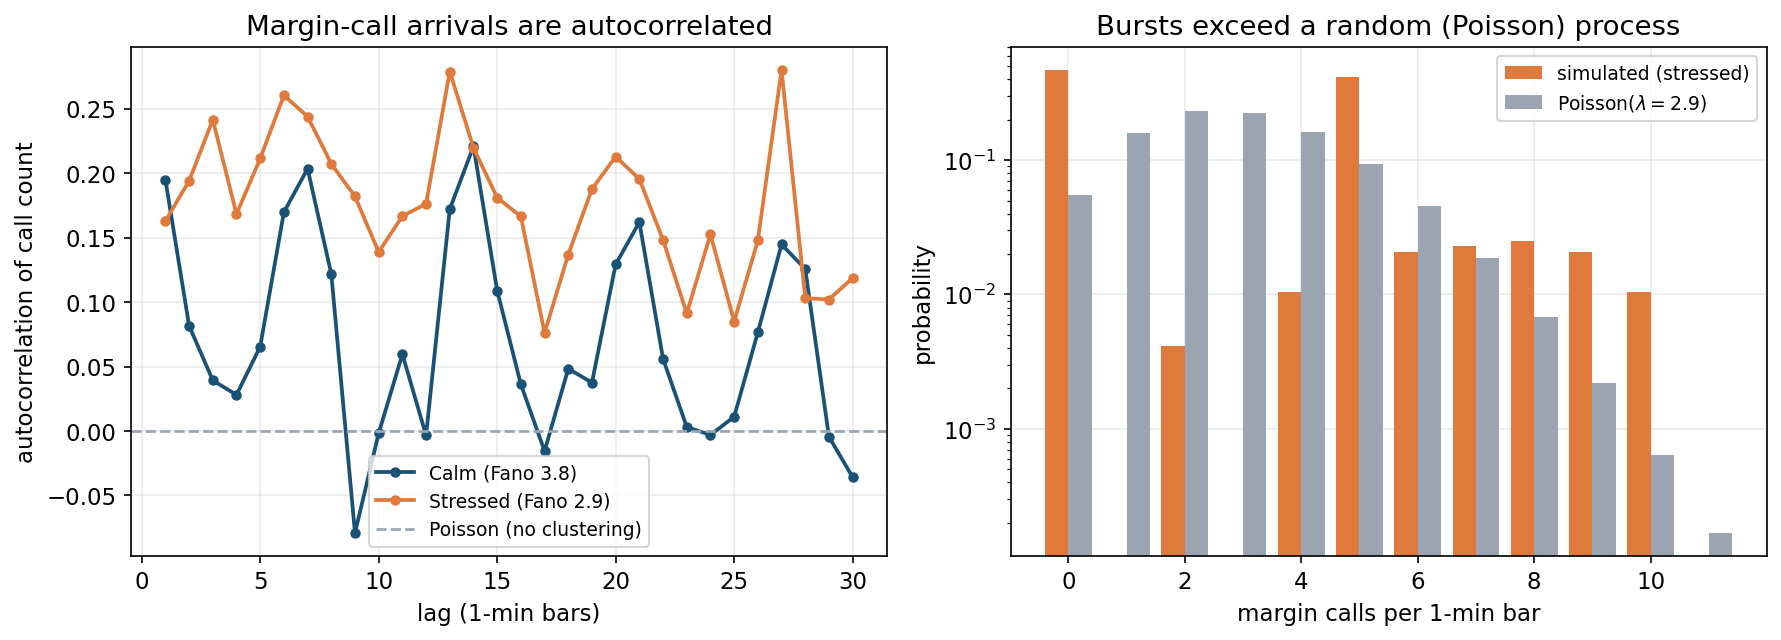
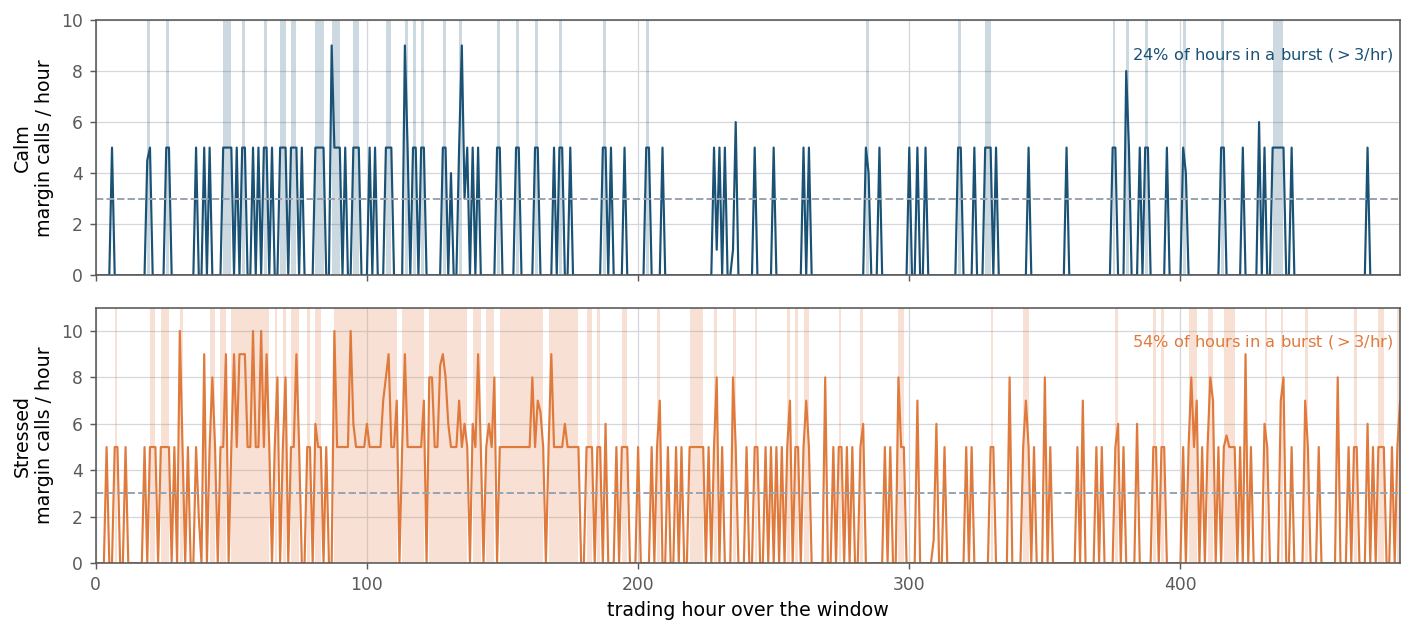
Updates from Overleaf

diff --git a/chapters/05_results.tex b/chapters/05_results.tex
@@ -1,94 +1,94 @@
-In this chapter, the Agent-Based Model for Client Clearing is presented across calm and stressed regimes. The standard model used the historical mid price series as a proxy for the Fundamental Value. The model is then demonstrated through a study of the procyclical nature of margin calls in stressed environments, comparing stress reactive margining to flat and constant margining. Finally, a version of the model is presented that replaces the empirical mid price fundamental value with a stochastic fundamental value, further expanding the usefulness of the model through simulations across various diverse paths. 
+In this chapter, the Agent-Based Model for Client Clearing is presented across calm and stressed regimes. The standard model uses the historical mid price series as a proxy for the Fundamental Value. The model is then demonstrated through a study of the procyclical nature of margin calls in stressed environments, comparing stress reactive margining to flat and constant margining. For the standard model, the simulation is run multiple times across different seeds. As the FV path remains the same, the mid price also follows near-identical paths. There are, however, variations in CM and client behaviours. Fundamental traders get new belief offsets, changing their behaviour patterns. Balance sheets are drawn once more, adding some more variation. The order posting behaviours also change, leading to different positions being created. This can be likened to running the same world on repeat, the major elements may be similar but small variations can lead to big changes especially in the tail -- with this emergent behaviour forming a characteristic feature of Agent-Based Models. 
+
+Finally, a version of the model is presented that replaces the empirical mid price fundamental value with a stochastic fundamental value, further expanding the usefulness of the model through simulations across various diverse paths. 
 
 
-\section{The Client-Clearing ABM}
+\section{The Client-Clearing ABM}\label{sec:res-general}
 
-This section simply presents the standard ABM as it is, across both regimes. The visualised mechanics of the model aid in a deeper understanding and a validation of the model's functions. 
+This section simply presents the standard ABM as it is, across both regimes. The visualised mechanics of the model aid in a deeper understanding and a validation of the model's functions.  Each regime is driven by the historical ES mid as a proxy fundamental, and simulations were done across 100 seeds.
 
+\paragraph{The simulated mid and the fundamental.} As seen in Figure~\ref{fig:res-fv}, the simulated mid price closely tracks the fundamental value. This can be expected, the Fundamental Traders add the informed order flow and make up a large portion of agents, and their quotes are anchored to $V_t$. In the Appendix~\ref{app:microstructure}, there are more figures on the microstructure of the order book which shows elements such as a thinning buy side in stressed and order volumes.
 
-
-
-
-
-
-This section presents the two-tier ABM for client clearing. It combines a calibrated LOB with realistic clearing practices and a CCP default waterfall. The descriptive figures illustrate the price generation, order flow, margin cycles and capital adequacies across the model.
-
-Output is shown across both a calm and stressed regime. Across both regimes, the simulated mid closely tracks the Fundamental Value of the asset (Fig \ref{fig:res-fv}). 
-
-\begin{figure}[H]
-  \centering
+\begin{figure}[H]\centering
   \includegraphics[width=\textwidth]{Figures/E_fv_vs_mid.png}
-  \caption{\textbf{Fundamental versus simulated mid (full model).} The empirical fundamental $V_t$ and the
-  simulated mid with the clearing tier active, calm and stressed regimes.}
+  \caption{\textbf{Fundamental versus simulated mid.} Empirical fundamental $V_t$ and the simulated mid
+  with the clearing tier active, calm and stressed.}
   \label{fig:res-fv}
 \end{figure}
 
-Compared to the calm regime, we see higher traded volumes in the stressed period. We also see a skew towards selling during the stressed market, with a thinning buy side order book depth (Fig \ref{fig:res-flow}).
+\paragraph{Capital Ratios and Clearing Members.} In the stressed regime, members are pushed towards the capital-adequacy ratio of 8\% that they share. The BCMs occasionally breach and deleverage, and the NBCMs breach less often and freeze. NBCMs also sit with a higher capital ratio on average (Figure~\ref{fig:res-kappa}, but on the rare occasion where they do hit the floor and freeze, they are the only CM type that defaults. 
 
-\begin{figure}[H]
-  \centering
-  \includegraphics[width=\textwidth]{Figures/A_order_flow.png}
-  \caption{\textbf{LOB Depth.} Buy- versus sell-side order book depth.}
-  \label{fig:res-flow}
-\end{figure}
+Each stressed seed produce an average $8.3$ client defaults (range $2$--$18$) and no defaults in calm. When the clients default, their CM seizes their IM and absorbs the remaining VM shortfall. The loss is generally contained at the CM and never reaches the default fund. In the rare case of NBCM default, 
+the residual deficit it leaves --- on average
+$\approx\$1.1$B --- is drawn up the waterfall: the defaulter's own default-fund contribution
+($\approx\$0.11$B) and the CCP's skin-in-the-game ($\approx\$0.12$B) first, then the mutualised pooled
+default fund ($\approx\$0.87$B). Against an average fund size of $\approx\$4.5$B in stress (and
+$\approx\$6.3$B in calm) this draws about $19\%$ of the pooled fund.
 
-\subsection{Capital Adequacy Ratios and Breaches}
-
-The clearing members operate with CAR constraint of a minimum of 8\%. BCMs that carry clients operate close to this floor. In the stressed period, they also breach the CAR ratio and must subsequently deleverage, with about 3.1 of the 5 breaching in a typical stressed seed. The five proprietary BCMs stay well above the floor. The NBCMs display heterogeneous behaviour, 2 of the five generally breach in a stressed seed but with no way to deleverage, roughly 0.15 of the 5 default per seed. 
-
-\begin{figure}[H]
-  \centering
+\begin{figure}[H]\centering
   \includegraphics[width=\textwidth]{Figures/B_capital_ratio.png}
-  \caption{\textbf{Clearing-member capital ratio $\kappa$ --- individual members (representative seed)}}
+  \caption{\textbf{Clearing-member capital ratio $\kappa$.} Left: median $\kappa$ by member type over
+  the stressed window (IQR band); the banks ride the $8\%$ floor (dashed) while the non-banks sit
+  higher. Right: per-seed floor breaches and defaults by type --- banks breach but deleverage and
+  survive, while the non-banks, unable to deleverage, are the only tier that defaults. In calm all
+  members sit far above the floor.}
   \label{fig:res-kappa}
 \end{figure}
 
-Each stressed seed produces ≈8.3 client defaults (range 2–18; none in calm); on default the client's posted initial margin is seized first and the carrying member absorbs the residual variation-margin shortfall and close-out loss against its own capital, closing out the position — so with no member failure the loss is contained at the member and never reaches the mutualised default fund.
+\noindent This stylised result from the model stresses the importance for NBCMs to have an available external funding source that is reliable even in stressful market situations. The lack of an own book that can be liquidated to generate liquidity is a vulnerability for the NBCM, even when it freezes all client trading at a comfortable capital ratio of 8\%.
 
-\subsection{Margin Cycle}
+\paragraph{Margin is procyclical and clusters.} Posted margin sits at the anti-procyclicality floor of 4\% for the entirety of the calm period and the start of the stressed period, ramping upto a peak of $11.4\%$ in stressed, averaging at $7.7\%$ over the window (Figure~\ref{fig:res-im}), a result of the volatility sensitive VaR margining.
 
-In calm periods, the IM stays at its anti-procyclicality floor of 4\%. Due to the low volatility and stable client trading, posted IM sees little variation. In stressed conditions, it starts at the 4\% floor and reaches a peak of 11.4\%, averaging 7.7\% across the window. 
-
-\begin{figure}[H]
-  \centering
+\begin{figure}[H]\centering
   \includegraphics[width=\textwidth]{Figures/C_im_path.png}
-  \caption{\textbf{Initial margin --- dollar path and procyclical fraction.} Posted IM (left axis, median
-  $+$ IQR) and the charged IM fraction (right axis): flat at the $4\%$ floor in calm}
+  \caption{\textbf{Initial margin: dollar path and procyclical fraction.} Posted IM (left axis, median
+  and IQR) and the charged fraction (right axis): flat at the $4\%$ floor in calm, ramping to $11.4\%$
+  in stress.}
   \label{fig:res-im}
 \end{figure}
 
-The majority of posted margin is from the client, 57\% in the stressed window and 60\% in the calm window. The lower share in the stressed window is due to the trading freezes that affect clients, lowering their trade volume whereas that of proprietary BCMs remains stable. 
+\noindent Under stress, clients post roughly half of all initial margin (Figure~\ref{fig:res-imtype}). The client tier therefore has a large impact on collateral demand. We also see that FTs post the most amount of collateral, and MTs vary quite sharply in the collateral they post, a result of both higher margin requirements and increased trading in stressed markets due to their strategy and a persistent negative drawdown.
 
-
-\begin{figure}[H]
-  \centering
+\begin{figure}[H]\centering
   \includegraphics[width=\textwidth]{Figures/D_im_by_type.png}
   \caption{\textbf{Posted initial margin by participant type.} Fundamental, momentum and noise clients
-  versus banking-member house margin; clients post $\approx 57\%$ of the total under stress.}
+  versus banking-member house margin; clients post about half of the total.}
   \label{fig:res-imtype}
 \end{figure}
 
-Looking at the margin calls, we see that they have a tendency to cluster. Both the baseline intensity and bursts are amplified during stress. 
+\noindent Looking at the arrival of margin calls, we see that they cluster over time, with bursts during stress (Figure~\ref{fig:res-mc}), emerging from the replicated volatility clustering in the model. This leaves CMs and clients prone to destabilising margin spikes during periods of extreme stress. 
 
 \begin{figure}[H]
   \centering
   \includegraphics[width=\textwidth]{Figures/F_margin_call_clustering.png}
-  \caption{\textbf{Margin-call clustering.} Margin calls per hour over the window, calm (top) versus stressed (bottom).}
+  \caption{\textbf{Margin-call clustering.} Margin calls per hour, calm (top) versus stressed (bottom); hours exceeding three calls are shaded. The wide, sustained bands under stress (54\% of hours) versus scattered spikes in calm (24\%) show the calls arriving in clusters rather than at random.
+}
   \label{fig:res-mc}
 \end{figure}
 
-\section{Margin Procyclicality}
+\section{Margin Procyclicality}\label{sec:resh1}
 
-The model is applied to answer the single hypothesis of this thesis -- the procyclicality of margin calls. Risk and volatility sensitive margining practices are procyclical in nature: margins are low in calm markets and rise in stressed markets, demanding more collateral in the exact situation when it is hard to raise. This experiment switches the reactive volatility based IM for a flat IM across all regimes. This flat IM keeps it constant, and may include asking for an unnecessarily high buffer during calm times, and in return diminishing the need for procyclical margin calls. Three levels of margin are tested - a low level at 4\%, a level resembling the average stressed IM at 8\%, and a level covering the peak stressed IM at 12\%. There are many assets that already have IM requirements higher than 10\%, while ES futures tend to have low IM requirements due to their high liquidity. 
+The model is then applied to look at margining practices -- volatile reactive margining is compared to flat and constant margins at different levels. Volatility sensitive margining is procyclical by construction, demanding collateral in stressful times where liquidity is hardest to raise \citep{brunnermeier_pedersen_2009,glasserman_wu_2018}. An anti-procyclicality (APC) buffer is standard practice, it asks for higher margins in calm times such that margins don't spike as much in stress. For the standard model, this was set at 4\% as covered in Section~\ref{sec:clearing-margin}. Here we look at a simple and explicit trade-off, we replace the reactive VaR margining with flat and constant margining at 3 levels -- 4\%, 8\%, and 12\%. 
 
-To test this hypothesis, the default fund (DF) had to be substituted. As the SLOIM default fund adjusts for IM, it shrank to zero for the high flat IMs that exceeded the extreme stress moves. A simple DF is used across both flat and reactive IMs, sized at a 10\% loss of the 2 largest members' positions. This leads to a DF size of $\approx\$12$--$14$B, similar to CME Clear levels. As previously mentioned, for reactive IM, the charged fraction
-ramps $4\%\!\to\!11.4\%$ ($2.84\times$) into the crash (Figure~\ref{fig:res-im}).
+The low level at 4\% is a plausible lower bound for an asset as liquid as ES futures, and is the current APC buffer in the standard model. The intermediate 8\% is close to the average margin the reactive VaR model asks for in stress times, and the high level at 12\% covers the peak of margin asked for by the model. Each of these, alongside the reactive VaR margining, is run over 150 seeds and evaluated based on client defaults, member defaults, how far losses travel up the waterfall and how much it costs to post these levels of collateral.
+
+The default fund (DF) of the standard model had to be adjusted to account for this construction. The standard model uses a Stressed-loss-over-margin to size the DF, but for the high flat IMs this often led to the DF collapsing to zero. The experiment therefore substitutes a fixed default fund, sized at $10\%$ of the two largest
+members' positions (a cover-2 principle) at $\approx\$12$--$14$B --- comparable to CME Clear's --- and
+applies it to both the flat and reactive arm, so that differences reflect the
+margin rule alone.
+
+
 
 
 \begin{table}[H]
 \centering\small
-\caption{\textbf{H1 --- margin regimes (stressed, 12 seeds).} Client defaults mean (sd); other columns mean
-across seeds; IM in \$B.}
+\caption{\textbf{H1 --- margin regimes (stressed, 150 seeds).} Client defaults mean (sd); other columns mean
+across seeds; IM in \$B; run under the ODD fixed default fund ($\approx\$12$--$14$B across arms) so the
+mutualised layer is comparable. The \emph{flat ladder} reads the trade-off top-to-bottom: as the standing
+margin rises, cost rises and client defaults fall, but loss climbs the waterfall (member defaults and
+mutualisation rise). \emph{Reactive} (set off below) holds the flat-$4\%$ standing cost while matching
+flat-$8\%$'s stress protection (its lower risk-metric means are within seed noise) --- its cost is the
+stress-time \emph{peak}.}
 \label{tab:res-h1}
 \begin{tabular}{l cc c cc}
 \toprule
@@ -96,25 +96,74 @@ across seeds; IM in \$B.}
 \cmidrule(lr){2-3}\cmidrule(lr){5-6}
 Margin regime & calm & peak & client def. & member def. & reach fund \\
 \midrule
-Flat $4\%$    & $15.9$ & $16.0$ & $14.3\ (2.8)$ & $0.00$ & $0\%$  \\
-Flat $8\%$    & $27.7$ & $29.6$ & $11.8\ (4.5)$ & $0.33$ & $33\%$ \\
-Flat $12\%$   & $37.7$ & $41.2$ & $\phantom{0}5.6\ (5.1)$ & $0.75$ & $58\%$ \\
+Flat $4\%$    & $18.1$ & $18.6$ & $14.8\ (4.8)$ & $0.01$ & $1\%$  \\
+Flat $8\%$    & $31.7$ & $33.8$ & $11.1\ (4.7)$ & $0.35$ & $30\%$ \\
+Flat $12\%$   & $42.3$ & $46.3$ & $\phantom{0}6.9\ (4.4)$ & $0.55$ & $42\%$ \\
 \midrule
-Reactive ($4\!\to\!11.4\%$) & $15.9$ & $36.1$ & $10.2\ (4.2)$ & $0.17$ & $17\%$ \\
+Reactive ($4\!\to\!11.4\%$) & $18.1$ & $38.5$ & $10.1\ (4.3)$ & $0.33$ & $25\%$ \\
 \bottomrule
 \end{tabular}
 \end{table}
 
-The central finding is that flat margin requirements do not remove default risk, but instead relocate it. As flat IM increases, client defaults fall as with more margin, less of client cash is exhausted. At the same time, member defaults rise to an average of 0.75 per seed. The mutualised default fund is subsequently reached in a high proportion of seeds. The high margins drain the cash balances needed by the Clearing Members to absorb client defaults. Higher margins therefore lower client defaults, but at same time increase the likelihood of systemic and CM failure. The reactive IM, conversely, offers lower client and member defaults than the flat 8\% IM. 
-
 \begin{figure}[H]
   \centering
   \includegraphics[width=\textwidth]{Figures/H1_margin.png}
-  \caption{\textbf{H1 --- the margin trade-off.} Each panel reports a different outcome across the margin regimes.}
+  \caption{\textbf{H1 --- the margin trade-off.} Each panel is one outcome across the margin regimes; the
+  flat ladder (light to dark) is monotonic and reactive is set off (after the dashed line) and highlighted.
+  Raising the flat margin protects clients (client defaults fall, left) but pushes loss up the waterfall
+  (mutualisation rises, centre) at rising standing cost (right). Reactive protects about as cheaply as
+  flat-$4\%$ in calm while matching flat-$8\%$'s stress protection, paying only a stress-time peak (dark bar,
+  right).}
   \label{fig:res-h1}
 \end{figure}
 
 
-\section{Simulated Fundamental Value}
+\section{A Synthetic Path Alternative}
 
-(to be added)
+So far, the results replay a historical period, using the empirical mid price as a Fundamental Value. This creates a natural limitations for this model - it can only be simulated over one path. This section provides an alternative, switching out the FV for a stochastic and synthetic series that reproduces the same stylised facts seen in the stressed period. The parameters of the synthetic FV are then calibrated jointly with agent parameters to reproduce stressed empirical moments, with the calibration yielding a fit in stress near identical to the empirical path, with moments such as volatility clustering being better reproduced (Section~\ref{sec:cal-synth}). The simulation is then run on 80 seeds, yielding 80 different paths for the Fundamental Value, and hence also for the simulated mid. The drift of these paths is similar to the COVID stressed window, but the stochastic runs yield both less and more extreme paths (Figure~\ref{fig:synth-paths}). This is then highly beneficial in simulating various market situations for the study of CCP resilience. 
+
+\begin{figure}[H]
+  \centering
+  \includegraphics[width=0.72\textwidth]{Figures/synth_paths.png}
+  \caption{\textbf{Synthetic two-factor-SV stress-path ensemble.} $N=80$ independent synthetic ES fundamental
+  paths (thin) with the ensemble mean (bold), drifting down at the stressed-window rate.}
+  \label{fig:synth-paths}
+\end{figure}
+
+\paragraph{Looking at the tail situations of a tail situation.} A point to note is that these paths are already based on a stressed environment, one that would form the tail of any normal distribution. The median path here is hence already a tail path. We see that despite this, for the median path, there are only 3 client defaults, no member defaults, and the default fund is never drawn (Table~\ref{tab:synth-clearing}). Across 80 such extreme paths, only 14 reach the mutualised default fund in this stylised model. 
+
+\begin{table}[H]
+\centering\small
+\caption{\textbf{Clearing outcomes across the $N{=}80$ synthetic stressed ensemble} (reactive margining,
+$42$-day paths). Posted initial margin in \$B; the waterfall levels L1--L5 follow the model's five-level
+default waterfall (L3 the mutualised default fund, L4 surviving-member loss-sharing, L5 CCP capital).}
+\label{tab:synth-clearing}
+\begin{tabular}{lccc}
+\toprule
+ & Median path & Ensemble mean & Worst path \\
+\midrule
+Client defaults          & $3$    & $7.8$  & $68$   \\
+Member defaults          & $0$    & $1.0$  & $15$   \\
+Peak posted IM (\$B)     & $43.5$ & $44.7$ & $80.8$ \\
+Deepest waterfall level  & $0$    & ---    & $5$    \\
+\midrule
+\multicolumn{4}{l}{\footnotesize $14/80$ paths reach the mutualised default fund (L$\geq3$); $8$ reach
+member loss-sharing (L4); $3$ reach CCP cash (L5).}\\
+\bottomrule
+\end{tabular}
+\end{table}
+
+
+
+
+\begin{figure}[H]
+  \centering
+  \includegraphics[width=\textwidth]{Figures/synth_clearing.png}
+  \caption{\textbf{Clearing on the synthetic stressed ensemble.} Left: per-path clearing stress (client
+  defaults) against the path's realised volatility, coloured by the deepest waterfall level reached and sized
+  by member defaults --- stress scales with volatility, and the high-volatility tail breaches the mutualised
+  waterfall. Right: posted initial margin over the window (ensemble median and $10$--$90\%$ band) --- the
+  procyclical ramp is consistent across all $80$ paths, while within a path the calls themselves cluster in
+  time.}
+  \label{fig:synth-clearing}
+\end{figure}

diff --git a/chapters/A_appendix.tex b/chapters/A_appendix.tex
@@ -1,0 +1,16 @@
+\section{Market Microstructure}\label{app:microstructure}
+The calibrated market layer's microstructure, summarised in Section~\ref{sec:res-general}, is shown in
+full here. Traded volume rises under stress and the book thins and skews to the sell side
+(Figure~\ref{fig:app-flow}); the resting bid/ask depth profile is in Figure~\ref{fig:app-depth}.
+
+\begin{figure}[H]\centering
+  \includegraphics[width=\textwidth]{Figures/A_order_flow.png}
+  \caption{\textbf{Order flow.} Buy- versus sell-side activity, calm versus stressed.}
+  \label{fig:app-flow}
+\end{figure}
+
+\begin{figure}[H]\centering
+  \includegraphics[width=\textwidth]{Figures/A2_book_depth.png}
+  \caption{\textbf{Order-book depth.} Bid versus ask resting depth, calm versus stressed.}
+  \label{fig:app-depth}
+\end{figure}

diff --git a/main.tex b/main.tex
@@ -29,7 +29,7 @@
 \noindent\rule{0.82\textwidth}{0.5pt}\par
 \vspace{0.7cm}
 
-{\Huge\bfseries An Agent-Based Model of CCP Systemic Risk: Client Clearing and Margin Procyclicality\par}
+{\Huge\bfseries An Agent-Based Model of \\ Central Clearing: \\\vspace{0.1 cm} \huge Client Clearing and Collateral Damage\par}
 % Replace with final thesis title
 
 \vspace{0.7cm}
@@ -122,7 +122,7 @@ Vrije Universiteit Amsterdam
 % ------------------------------------------------
 % Appendices
 % ------------------------------------------------
-% \appendix
+\appendix
 
 \chapter{Additional Tables and Figures} \label{ch:appendix}
 \input{chapters/A_appendix}

diff --git a/chapters/04_model_calibration_validation.tex b/chapters/04_model_calibration_validation.tex
@@ -261,7 +261,8 @@ Hill tail index             & $2.73$    & $2.71$    & $0.1$ & yes \\
 \bottomrule
 \end{tabular}
 \end{table}
-The calibration was then validated on 80 fresh stressed paths. The optimum reproduces the stylised facts well, even more so than the standard model. Even long-horizon volatility clustering is reproduced to a large extent. The one remaining minor artifact is a slightly stronger bid-ask bounce than in empirical data, which is still a large improvement over the standard model, and is an artefact of the thin LOB at a one minute frequency. The Mean-Coverage ratio cannot be directly applied to this model, as the stochastic paths vary by large amounts. A simpler validation is performed, with a confidence interval of the empirical moments constructed based on their standard deviation from the bootstrap method, and the paths averaged to look at stylised facts. The loss function $\theta$ is lower than for the standard stressed model, signalling a better fit.
+
+\noindent The calibration was then validated on 80 fresh stressed paths. The optimum reproduces the stylised facts well, even more so than the standard model. Even long-horizon volatility clustering is reproduced to a large extent. The one remaining minor artifact is a slightly stronger bid-ask bounce than in empirical data, which is still a large improvement over the standard model, and is an artefact of the thin LOB at a one minute frequency. The Mean-Coverage ratio cannot be directly applied to this model, as the stochastic paths vary by large amounts. A simpler validation is performed, with a confidence interval of the empirical moments constructed based on their standard deviation from the bootstrap method, and the paths averaged to look at stylised facts. The loss function $\theta$ is lower than for the standard stressed model, signalling a better fit.
 
 
 \begin{figure}[H]

diff --git a/chapters/a_acknowledgements.tex b/chapters/a_acknowledgements.tex
@@ -1,0 +1,1 @@
+This thesis required the support of many others that begets acknowledgement. I'd like to thank Simudyne, and in particular Krishnen Vytelingum who took the time to discuss the model they created, offer advice throughout the process and aid me in my doubts. I would also like to thank my supervisor, Dr. Rex Wang who gave me the freedom and independence, and with it the trust, to explore a unique and challenging topic. I would also like to thank Prof. Theo Kocken who helped me develop my initial approach, introducing me to Agent-Based Models and the field of central clearing, and went above and beyond to offer his help. Finally, to Prof. Albert Menkveld, also assigned as the second reader,  who helped develop my interest in market microstructure and taught the theory that forms a large part of the market simulation, in addition to his work on central clearing.